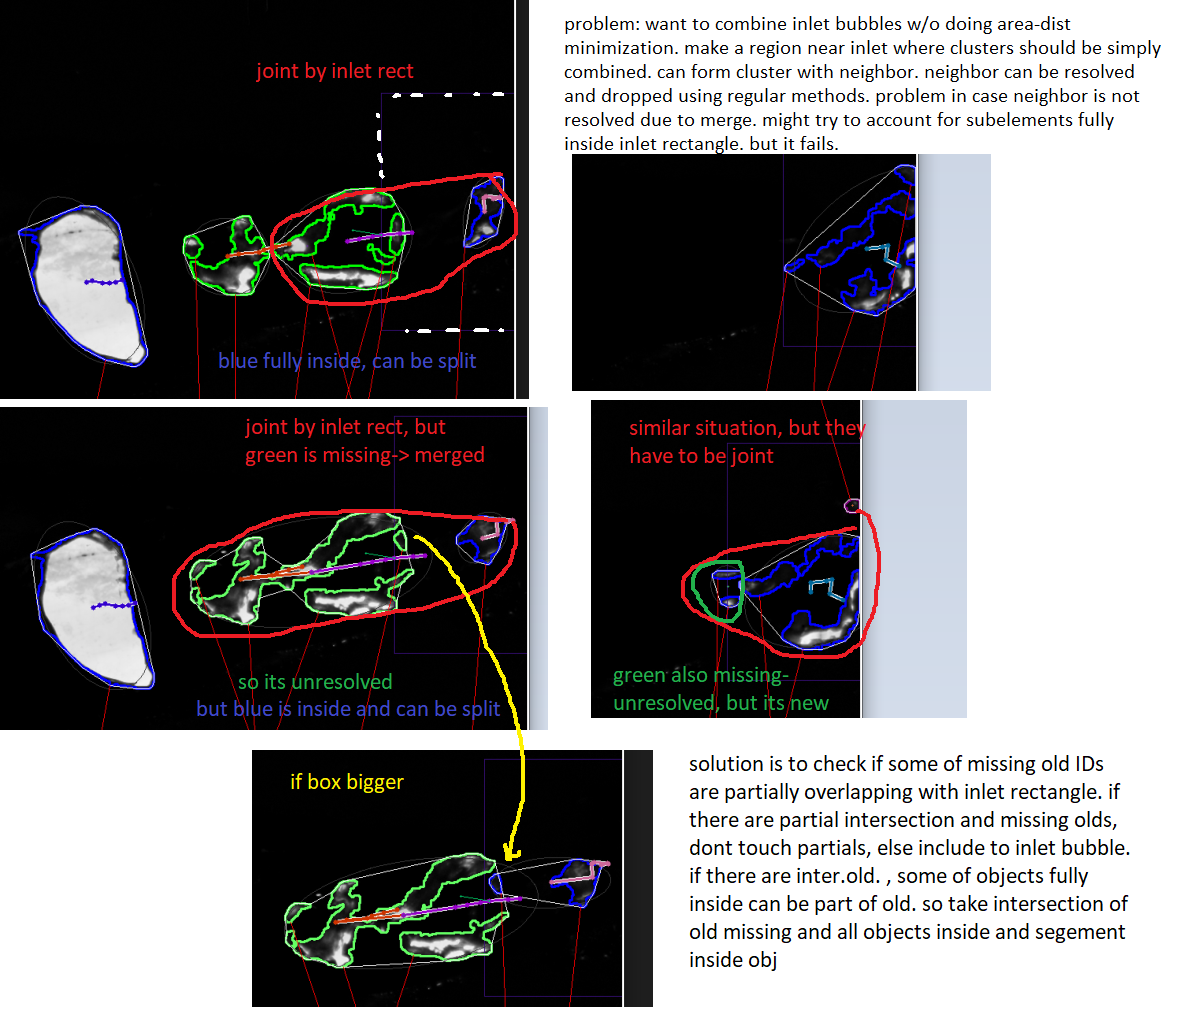
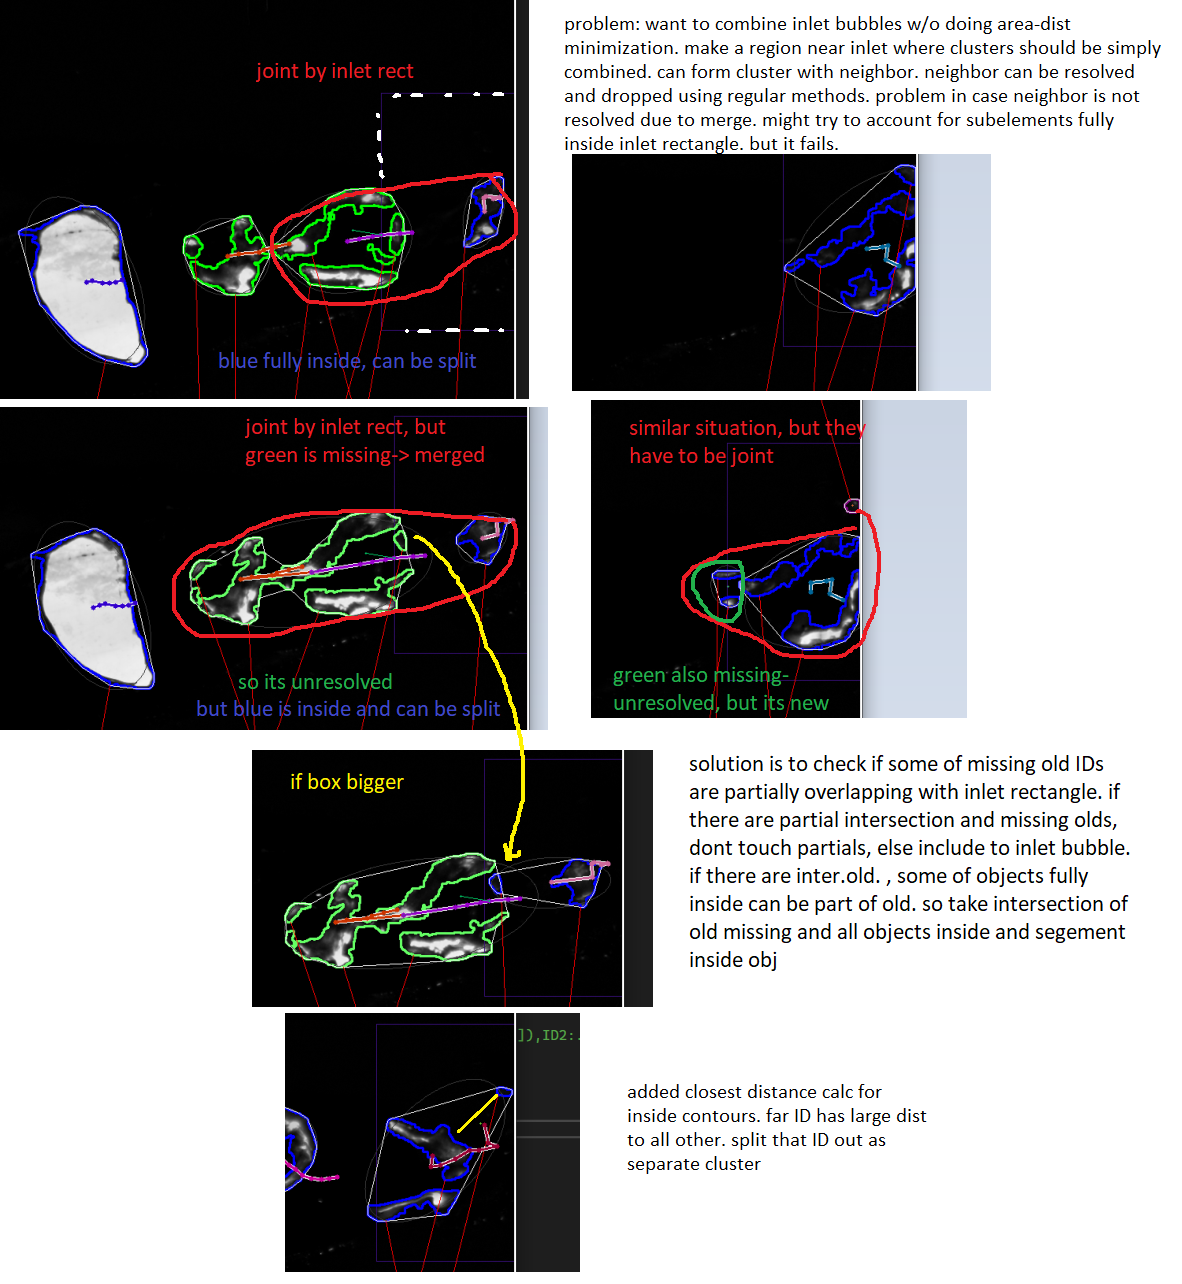
1) splitting inlet cluster in multiple subclusters forces to search them on next frame. i have to assume that there is one or none inlet bubble, so its easier to process. to enforce that idea, i drop small subclusters. to deal with multiple old IDs in inlet area: if there is none then form a new clu

diff --git a/bubble_process_tests.py b/bubble_process_tests.py
@@ -55,7 +55,7 @@ from imageFunctionsP2 import (initImport, init, bubbleTypeCheck,
                               multiContourBoundingRect,stuckBubHelp,doubleCritMinimum,dropDoubleCritCopies,
                               radialStatsImageEllipse,radialStatsContoursEllipse,compareRadial,                         # radialStatsImage,radialStatsContours,compareRadial 03/03/23
                               tempStore,tempStore2,alphashapeHullModded,mergeCrit,graphUniqueComponents,                # tempStore 17/03/23   alphashapeHullModded (replaced) 22(24)/03/23 ,mergeCrit 23/03/23, graphUniqueComponents 25/03/23 
-                              interpolateHull,getOverlap,radialAnal,mergeSplitDetect)                                                    # interpolateHull 26/03/23 radialAnal 02/04/23   mergeSplitDetect 05/04/23    
+                              interpolateHull,getOverlap,radialAnal,mergeSplitDetect,closestDistancesContours)         # interpolateHull 26/03/23 radialAnal 02/04/23   mergeSplitDetect 05/04/23, closestDistancesContours 12/04/23
 def resizeImage(img,frac):
     width = int(img.shape[1] * frac)
     height = int(img.shape[0] * frac)
@@ -192,7 +192,7 @@ big = 1
 # dataStart = 71+52 ###520
 # dataNum = 7
 dataStart           = 200 #  53+3+5
-dataNum             = 61 # 7+5   
+dataNum             = 70 # 7+5   
 # ------------------- this manual if mode  is not 0, 1  or 2
 workBigArray        = 0
 recalcMean          = 0  
@@ -922,6 +922,7 @@ def mainer(index):
             jointNeighbors          = {**{min(vals):vals for vals in jointNeighborsDelSubIDs if len(vals) > 0},**elseOldNewDoubleCriteriumSubIDs}   # not clear. same 2 lists overlayed
             # --- cluster have twice been recombined ( recover & merge-split), so some connectivity might be lost ---
             # --- must do overlap within clusters and then clusters must be devided based on connectivity --- *** pre delResolvedMB jointNeighbors have holes, might be problematic ***
+            print(f'Reclustering jointNeighbors in case of discontinueties due to recovery. old Clusters: {jointNeighbors}')
             bigClusterIDs           = [ID for ID,subIDs in jointNeighbors.items() if len(subIDs)>1]
             for ID in bigClusterIDs:
                 rectParams = {subID:l_rect_parms_all[subID] for subID in jointNeighbors[ID]}
@@ -930,54 +931,87 @@ def mainer(index):
                 jointNeighbors.pop(ID, None)
                 for subIDs in cc_unique:
                     jointNeighbors[min(subIDs)] = subIDs
-
+            print(f'Reclustering jointNeighbors in case of discontinueties due to recovery. new Clusters: {jointNeighbors}')
+            
             temp = {}
             for ID,subIDs in jointNeighbors.items():                                        # determine which cluster is overlapping inlet recangle. might be done conentional way..
                 match = [a in subIDs for a,tp in inletIDsTypeNew.items() if tp == 2]
                 temp[ID] =  sum(match)                                                      # count matches of inlet new IDs in clusters
             clusterID    = max(temp, key=temp.get)                                          # best match wins !
                     
+            if temp[clusterID] > 0:
+                a = 1                                                                           # 
+                idsInside   = [ID for ID, cType in inletIDsTypeNew.items() if cType == 2]       # ids fully inside inlet rectangle. might include parts of unresolved neighbor clusters
+                idsPartial  = [ID for ID, cType in inletIDsTypeNew.items() if cType == 1]       # ids that are partially inside inlet rectangle. again, might be part of unresolved clusters.
+                overlappintPartialOldIDs = [ID for ID,cType in inletIDsType.items() if cType == 1] # there are partially overlaying old IDs
+                overlappintUnresolvedOldIDs = [a for a in overlappintPartialOldIDs if a in unresolvedOldRB + unresolvedOldDB] # which of these are missing
 
-            a = 1                                                                           # 
-            idsInside   = [ID for ID, cType in inletIDsTypeNew.items() if cType == 2]       # ids fully inside inlet rectangle. might include parts of unresolved neighbor clusters
-            idsPartial  = [ID for ID, cType in inletIDsTypeNew.items() if cType == 1]       # ids that are partially inside inlet rectangle. again, might be part of unresolved clusters.
-            overlappintPartialOldIDs = [ID for ID,cType in inletIDsType.items() if cType == 1] # there are partially overlaying old IDs
-            overlappintUnresolvedOldIDs = [a for a in overlappintPartialOldIDs if a in unresolvedOldRB + unresolvedOldDB] # which of these are missing
-            for oldID, tp in inletIDsType.items():
-                if tp == 2 and len(idsInside)>0:
-                    overlapNew      = []                                                    # see if else below
-                    subIDs          = jointNeighbors[clusterID].copy()                      # take IDs of elements in relevant cluster
-                    includeIDs      = [ID for ID in subIDs if ID in idsInside]              # extract only those inside. maybe i dont have do this step, but take idsInside. not sure.
-                    leaveIDs        = [ID for ID in subIDs if ID not in idsInside]
-                    if len(overlappintUnresolvedOldIDs)==0:                                 # partial IDs could be part of unresolved cluster, like MB, which are determined next
-                        includeIDs = includeIDs + [ID for ID in subIDs if ID in idsPartial] # or they can be part of inlet bubble. in case there are no missing bubbles, include them into IB
-                        leaveIDs = []
-                    else:                                                                   # in case there is overlapping unresolved old ID, some contours fully in inlet rectangle
-                        overlap     = overlappingRotatedRectangles(                         # can be part of it. 
-                                    {ID:l_rect_parms_old[ID] for ID in overlappintUnresolvedOldIDs},
-                                    {ID:l_rect_parms_all[ID] for ID in includeIDs}          # check intersection between old partially overlapping unresolved old bubble and 
-                                                                    )                       # objects fully  inside inlet rectangle.
-                        overlapNew  = [a for _,a in overlap]                                 # get local IDs of new object ids
-                        includeIDs  = [a for a in includeIDs if a not in overlapNew]         # drop overlapNew IDs from fully inside
-                        leaveIDs    = leaveIDs + overlapNew                                    # add overlapNew IDs to remaining unresolved cluster
-
-                    newID           = min(includeIDs)
-                    jointNeighbors.pop(clusterID, None)
-                    if len(includeIDs)>0:
-                        jointNeighbors  = {**jointNeighbors,**{min(includeIDs):includeIDs}}
-                    if len(leaveIDs)>0:
-                        jointNeighbors  = {**jointNeighbors,**{min(leaveIDs):leaveIDs}}
+                print(f'Processing bubble next to inlet. inside region: {idsInside}, on border: {idsPartial}, unresolved old IDs that overlap inet zone: {overlappintUnresolvedOldIDs}')
+                #if len(overlappintUnresolvedOldIDs)==0 and : 
+                #for oldID, tp in inletIDsType.items():
+                #    if tp == 2 and len(idsInside)>0:
+                overlapNew      = []                                                    # see if else below
+                subIDs          = jointNeighbors[clusterID].copy()                      # take IDs of elements in relevant cluster
+                includeIDs      = [ID for ID in subIDs if ID in idsInside]              # extract only those inside. maybe i dont have do this step, but take idsInside. not sure.
+                leaveIDs        = [ID for ID in subIDs if ID not in idsInside]
+                if len(overlappintUnresolvedOldIDs)==0:                                 # partial IDs could be part of unresolved cluster, like MB, which are determined next
+                    includeIDs = includeIDs + [ID for ID in subIDs if ID in idsPartial] # or they can be part of inlet bubble. in case there are no missing bubbles, include them into IB
+                    leaveIDs = []
+                    print(f'no old bubbles in proximity, include border IDs into clusters: {includeIDs}')
+                else:                                                                   # in case there is overlapping unresolved old ID, some contours fully in inlet rectangle
+                    overlap     = overlappingRotatedRectangles(                         # can be part of it. 
+                                {ID:l_rect_parms_old[ID] for ID in overlappintUnresolvedOldIDs},
+                                {ID:l_rect_parms_all[ID] for ID in includeIDs}          # check intersection between old partially overlapping unresolved old bubble and 
+                                                                )                       # objects fully  inside inlet rectangle.
+                    overlapNew  = [a for _,a in overlap]                                # get local IDs of new object ids
+                    includeIDs  = [a for a in includeIDs if a not in overlapNew]        # drop overlapNew IDs from fully inside
+                    leaveIDs    = leaveIDs + overlapNew                                 # add overlapNew IDs to remaining unresolved cluster
+                        
+                    print(f'there are old bubbles in proximity, split inlet clusters into  {includeIDs} and {leaveIDs}')
+                if len(includeIDs)>0:
+                    includeArea = cv2.contourArea(cv2.convexHull(np.vstack(l_contours[includeIDs])))
+                    includeIDs  = includeIDs if includeArea > 550 else []
+                jointNeighbors.pop(clusterID, None)
+                if len(includeIDs)>1:
+                    neighborDists = closestDistancesContours({ID:l_contours[ID] for ID in includeIDs})  # get closest distances between contours. format: {ID1:np.array([[ID2,d12],[ID3,d13]]),ID2:...}
+                    IDfail = {ID:all(np.where(vals[:,1] > 50,1,0)) for  ID,vals in neighborDists.items()} # all distances are greater than threshold
+                    includeIDs  = [ID for ID in includeIDs if IDfail[ID] == False]                       # keep inside contours that are reasonably clustered
+                    distanceIDs = [ID for ID, failed in IDfail.items() if failed == True]               # and take out those that are too farm away from each other
+                    areasPass   = [ID  for ID in distanceIDs if cv2.contourArea(l_contours[ID]) > 550]
+                    distanceIDs = [ID for ID in distanceIDs if ID in areasPass]
+                    print(f'checking for widely spaced elements in clusters. IDs that fail dist check {IDfail}')
+                else: distanceIDs = []
+                    
+                    
+                if len(includeIDs)>0:                                                               
+                    jointNeighbors  = {**jointNeighbors,**{min(includeIDs):includeIDs}}
+                    oldInsideIDs = [oldID for oldID, cType in inletIDsType.items() if cType == 2]
+                    aresOld         = {ID:l_areas_hull_old[ID] for ID in oldInsideIDs}
                     hull            = cv2.convexHull(np.vstack(l_contours[includeIDs]))
-
+                    newID           = min(includeIDs)
                     dataSets        = [l_DBub_masks,l_DBub_images,l_DBub_old_new_IDs,l_DBub_rect_parms,l_DBub_centroids,l_DBub_areas_hull,l_DBub_contours_hull]
-                                                                                     # data is stored via local IDs
-                    elseOldNewDoubleCriteriumSubIDs[newID]  = includeIDs                                               # add to oldDB new DB relations
-                    elseOldNewDoubleCriterium.append([oldID, newID, 15, 1])   # some stats.
+                    tempStore2(includeIDs, l_contours, newID, err, orig, dataSets, concave = hull)
+                    
+                    
+                    if len(oldInsideIDs)>0:
+                        oldID        = max(aresOld, key = aresOld.get)
+                    
+                        elseOldNewDoubleCriteriumSubIDs[newID]  = includeIDs                                               # add to oldDB new DB relations
+                        elseOldNewDoubleCriterium.append([oldID, newID, 15, 1])   # some stats.
                             
-                    tempStore2(includeIDs, l_contours,newID, err, orig, dataSets, concave = hull)
-                    l_predict_displacement[oldID]            = [tuple(map(int,l_DBub_centroids[newID])), 15]
-                    unresolvedOldRB.remove(oldID)   if oldID in unresolvedOldRB     else 0                              # remove from unresolved IDs
-                    unresolvedOldDB.remove(oldID)   if oldID in unresolvedOldDB     else 0                              # remove from unresolved IDs
+                        l_predict_displacement[oldID]            = [tuple(map(int,l_DBub_centroids[newID])), 15]
+                        unresolvedOldRB.remove(oldID)   if oldID in unresolvedOldRB     else 0                              # remove from unresolved IDs
+                        unresolvedOldDB.remove(oldID)   if oldID in unresolvedOldDB     else 0                              # remove from unresolved IDs
+                        print(f'relating inlet cluster to old ID: {oldID}')
+                        print(f'Save inlet cluster: {includeIDs}, distance fail elements: {distanceIDs}, rest of cluster: {leaveIDs}, which might be a merge.')
+                    else:
+                        print(f'no old ID found, addin as new ID')
+                        print(f'Save inlet cluster: {includeIDs}, distance fail elements: {distanceIDs}, rest of cluster: {leaveIDs}, which might be a merge.')
+                if len(distanceIDs)>0:                                                               
+                    jointNeighbors  = {**jointNeighbors,**{ID:[ID] for ID in distanceIDs}}          # add distance ones as single element clusters
+                if len(leaveIDs)>0:
+                    jointNeighbors  = {**jointNeighbors,**{min(leaveIDs):leaveIDs}}                 # rest of the cluster, not only partials
+                    
 
             #----------------- consider else clusters are finalized ---------------------
             #tempJoinNeighbors = jointNeighbors.copy()
@@ -1737,7 +1771,7 @@ for globalCounter in range(globalCounter):
         dx2                     = max(0, xS + totSize - L)                                  # if BRect is poking out of right side of image dx2 is positive, else zero
         thickRectangle[ID]      = [xS + dx1 - dx2,0,totSize, hS]
         strDimsAll[ID]          = strDims
-
+        cv2.rectangle(blank, (xS + dx1 - dx2,y), (xS + dx1 - dx2+totSize,y+h),(255,0,0),2)
     # split into competing vertical columns    
     aa = overlappingRotatedRectangles(thickRectangle,thickRectangle)
     HG = nx.Graph()
@@ -1754,14 +1788,21 @@ for globalCounter in range(globalCounter):
     for IDs in rectParams:
         for i in HG.neighbors(IDs):
             neighbors[IDs].append(i)
-            if posTB[i] == posTB[IDs]: neighborsSameSide[IDs].append(i)
-    clusters0 = [tuple(np.sort(np.array([ID] +nbrs))) for ID, nbrs in neighborsSameSide.items()]
-    SameSideClusters = [list(aa) for aa in set(clusters0)]
-    globSideOrder = {ID:0 for ID in rectParams}
-    for arr in SameSideClusters:
-        srt = np.argsort([cntrd[ID][1] for ID in arr])
-        for i,elem in enumerate(arr):
-            globSideOrder[elem] = srt[i]
+            if posTB[i] == posTB[IDs]: neighborsSameSide[IDs].append(i) # write connections between neighbors on same side
+    #clusters0 = [tuple(np.sort(np.array([ID] +nbrs))) for ID, nbrs in neighborsSameSide.items()]
+    a = 1
+    edgePairs = sum([[(ID,a) for a in nbrs] for ID,nbrs in neighborsSameSide.items() if len(nbrs) > 0], []) # rewrite connections into pairs, ignore solo connections
+    sameSideClusters = graphUniqueComponents(list(rectParams.keys()),edgePairs)                             # get same side cluster, next step order them by centroid y coordinate
+    
+    sortedByY = [[x for _,x in sorted(zip([cntrd[a][1] for a in X],X))] for X in sameSideClusters] # https://stackoverflow.com/questions/6618515/sorting-list-according-to-corresponding-values-from-a-parallel-list
+    sortedIndexed = [{ID:i for i,ID in enumerate(ID)} for ID in sortedByY]                         # enumerate index is a vertical position index for text
+    globSideOrder = {k: v for d in sortedIndexed for k, v in d.items()}                            # combine list of dictionaries into on dict.
+    #SameSideClusters = [list(aa) for aa in set(clusters0)]
+    #globSideOrder = {ID:0 for ID in rectParams}
+    #for arr in SameSideClusters:
+    #    srt = np.argsort([cntrd[ID][1] for ID in arr])                                            # old method. did not work, new method on top is simpler.
+    #    for i,elem in enumerate(arr):
+    #        globSideOrder[elem] = srt[i]
         
     textHeight  = textHeightMax
     textNoGo    = 10

diff --git a/imageFunctionsP2.py b/imageFunctionsP2.py
@@ -889,7 +889,20 @@ def closes_point_contours(c1,c2):
     # # draw the two points and save
     # cv2.circle(img,(chosen_point_c1), 4, (0,255,255), -1)
     # cv2.circle(img,tuple(chosen_point_c2[0]), 4, (0,255,255), -1)
-    
+
+def closestDistancesContours(contoursDict):
+    contourIDs = list(contoursDict.keys())
+    IDcombinations = np.unique(np.sort(np.array(list(itertools.permutations(contourIDs, 2)))), axis = 0)
+    output = {ID:np.zeros((len(contourIDs)-1,2),int) for ID in contourIDs}                                  # every ID has N-1 connections
+    counter  = {ID:0 for ID in contourIDs}
+    for i,j in IDcombinations:
+       distance = int(closes_point_contours(contoursDict[i],contoursDict[j])[1])                            # distance between contour i and j , i != j
+       ii = counter[i];jj = counter[j]                                                                      # maybe better to pre-reserve memory, so this is the pos counter
+       output[i][ii] = np.array((j,distance), int)                                                          # since dist i->j is same as j-> fill both
+       output[j][jj] = np.array((i,distance), int)
+       counter[i] += 1;counter[j] += 1
+    return output 
+
 showDistDecay = True    
 def distStatPrediction(trajectory, startAmp0 = 20, expAmp = 20, halfLife = 1, numsigmas = 2, plot=0, extraStr = ''):
     global showDistDecay
